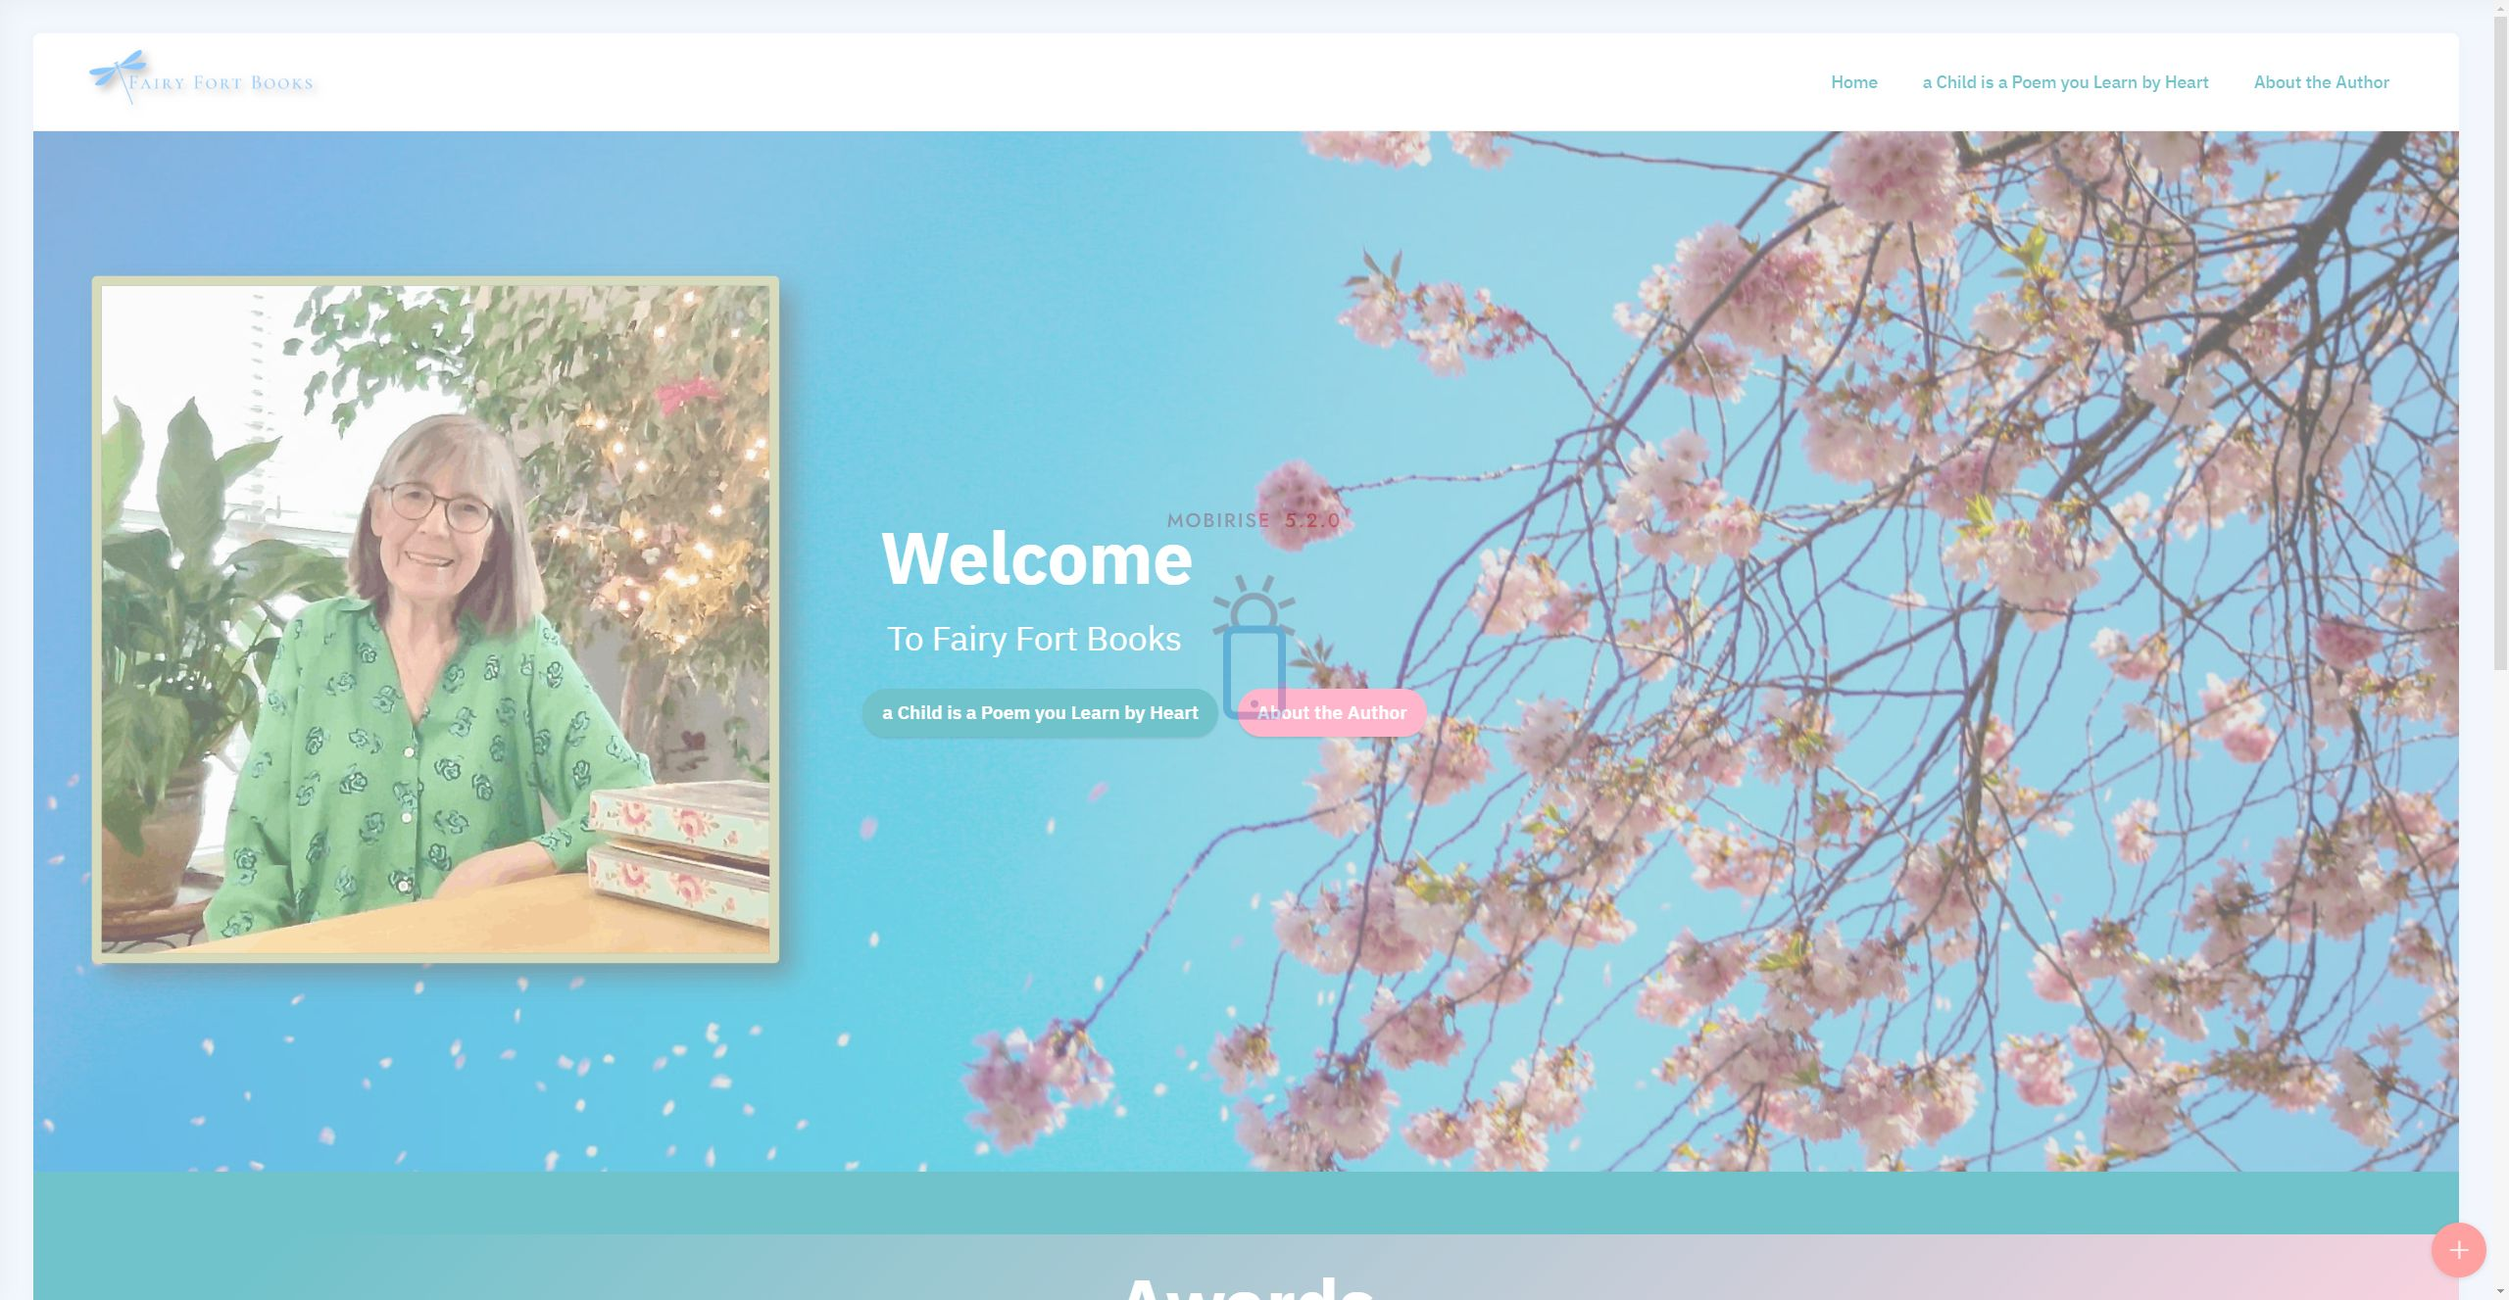
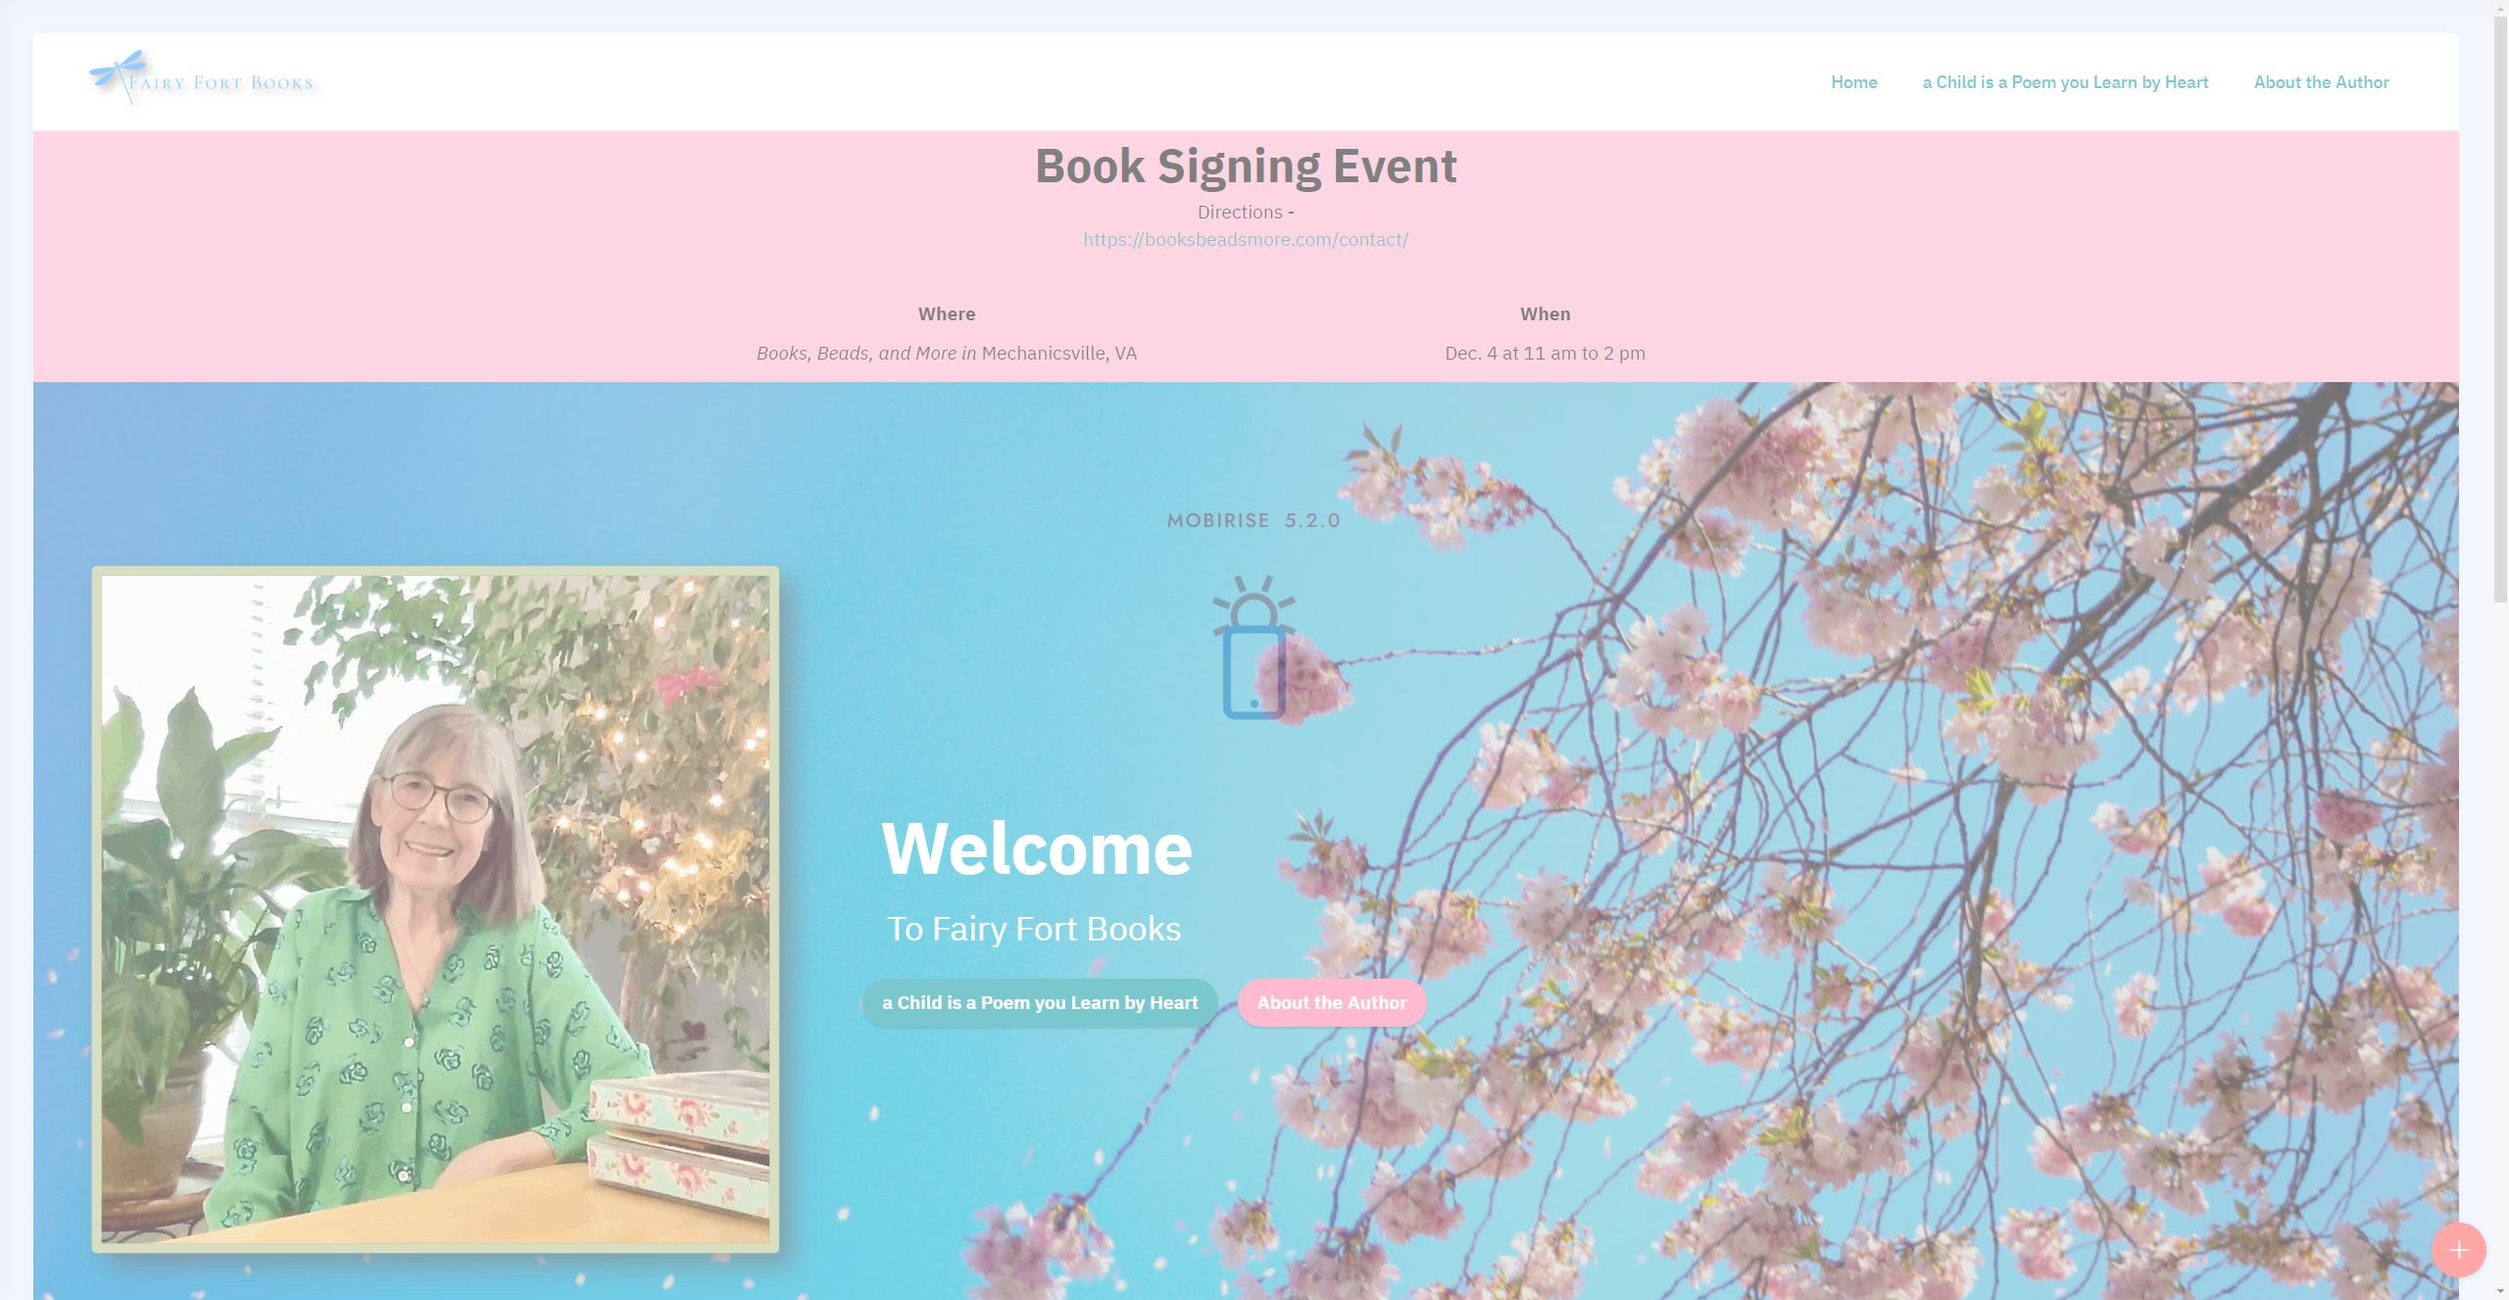
Add files via upload

diff --git a/index.html b/index.html
@@ -11,6 +11,7 @@
   
   
   <title>Home</title>
+  <link rel="stylesheet" href="assets/web/assets/mobirise-icons2/mobirise2.css">
   <link rel="stylesheet" href="assets/tether/tether.min.css">
   <link rel="stylesheet" href="assets/bootstrap/css/bootstrap.min.css">
   <link rel="stylesheet" href="assets/bootstrap/css/bootstrap-grid.min.css">
@@ -59,20 +60,40 @@
 
 </section>
 
-<section class="image3 cid-sLF0UMOCpK" id="image3-3a">
+<section class="features1 cid-sOSevi6uAW" id="features1-3e">
     
 
     
-
-    <div class="container">
-        <div class="row justify-content-center">
-            <div class="col-12 col-lg-7">
-                <div class="image-wrapper">
-                    <img src="assets/images/event-1076x832.jpg" alt="Mobirise">
-                    <p class="mbr-description mbr-fonts-style mt-2 align-center display-7"><strong>
-                        New Event!</strong></p>
+    <div class="container-fluid">
+        <div class="row">
+            <div class="col-12">
+                <h3 class="mbr-section-title mbr-fonts-style align-center mb-0 display-2">
+                    <strong>Book Signing Event</strong></h3>
+                <h5 class="mbr-section-subtitle mbr-fonts-style align-center mb-0 mt-2 display-7">Directions -<br><a href="https://booksbeadsmore.com/contact/" class="text-primary">https://booksbeadsmore.com/contact/</a>
+                </h5>
+            </div>
+        </div>
+        <div class="row">
+            <div class="card col-12 col-md-6 col-lg-3">
+                <div class="card-wrapper">
+                    <div class="card-box align-center">
+                        
+                        <h5 class="card-title mbr-fonts-style display-7"><strong>Where</strong></h5>
+                        <p class="card-text mbr-fonts-style display-7"><em>Books, Beads, and More in&nbsp;</em>Mechanicsville, VA<br></p>
+                    </div>
                 </div>
             </div>
+            <div class="card col-12 col-md-6 col-lg-3">
+                <div class="card-wrapper">
+                    <div class="card-box align-center">
+                        
+                        <h5 class="card-title mbr-fonts-style display-7"><strong>When</strong></h5>
+                        <p class="card-text mbr-fonts-style display-7">Dec. 4 at 11 am to 2 pm </p>
+                    </div>
+                </div>
+            </div>
+            
+            
         </div>
     </div>
 </section>
@@ -289,7 +310,7 @@
             </div>
         </div>
     </div>
-</section><section style="background-color: #fff; font-family: -apple-system, BlinkMacSystemFont, 'Segoe UI', 'Roboto', 'Helvetica Neue', Arial, sans-serif; color:#aaa; font-size:12px; padding: 0; align-items: center; display: flex;"><a href="https://mobirise.site/p" style="flex: 1 1; height: 3rem; padding-left: 1rem;"></a><p style="flex: 0 0 auto; margin:0; padding-right:1rem;">Mobirise page software - <a href="https://mobirise.site/n" style="color:#aaa;">Check this</a></p></section><script src="assets/web/assets/jquery/jquery.min.js"></script>  <script src="assets/popper/popper.min.js"></script>  <script src="assets/tether/tether.min.js"></script>  <script src="assets/bootstrap/js/bootstrap.min.js"></script>  <script src="assets/smoothscroll/smooth-scroll.js"></script>  <script src="assets/viewportchecker/jquery.viewportchecker.js"></script>  <script src="assets/parallax/jarallax.min.js"></script>  <script src="assets/dropdown/js/nav-dropdown.js"></script>  <script src="assets/dropdown/js/navbar-dropdown.js"></script>  <script src="assets/touchswipe/jquery.touch-swipe.min.js"></script>  <script src="assets/theme/js/script.js"></script>  
+</section><section style="background-color: #fff; font-family: -apple-system, BlinkMacSystemFont, 'Segoe UI', 'Roboto', 'Helvetica Neue', Arial, sans-serif; color:#aaa; font-size:12px; padding: 0; align-items: center; display: flex;"><a href="https://mobirise.site/t" style="flex: 1 1; height: 3rem; padding-left: 1rem;"></a><p style="flex: 0 0 auto; margin:0; padding-right:1rem;"><a href="https://mobirise.site/r" style="color:#aaa;">The site</a> was started with Mobirise templates</p></section><script src="assets/web/assets/jquery/jquery.min.js"></script>  <script src="assets/popper/popper.min.js"></script>  <script src="assets/tether/tether.min.js"></script>  <script src="assets/bootstrap/js/bootstrap.min.js"></script>  <script src="assets/smoothscroll/smooth-scroll.js"></script>  <script src="assets/viewportchecker/jquery.viewportchecker.js"></script>  <script src="assets/parallax/jarallax.min.js"></script>  <script src="assets/dropdown/js/nav-dropdown.js"></script>  <script src="assets/dropdown/js/navbar-dropdown.js"></script>  <script src="assets/touchswipe/jquery.touch-swipe.min.js"></script>  <script src="assets/theme/js/script.js"></script>  
   
   
   <input name="animation" type="hidden">

diff --git a/page2.html b/page2.html
@@ -106,7 +106,7 @@ reading, writing, and spending time with family.</strong></p>
         </h4>
         <div class="row">
             <div class="col-lg-8 mx-auto mbr-form" data-form-type="formoid">
[2 lines of base64/hex data omitted]
                     <div class="row">
                         <div hidden="hidden" data-form-alert="" class="alert alert-success col-12">Thanks for filling out the form!</div>
                         <div hidden="hidden" data-form-alert-danger="" class="alert alert-danger col-12">Oops...! some problem!</div>
@@ -170,7 +170,7 @@ reading, writing, and spending time with family.</strong></p>
             </div>
         </div>
     </div>
-</section><section style="background-color: #fff; font-family: -apple-system, BlinkMacSystemFont, 'Segoe UI', 'Roboto', 'Helvetica Neue', Arial, sans-serif; color:#aaa; font-size:12px; padding: 0; align-items: center; display: flex;"><a href="https://mobirise.site/l" style="flex: 1 1; height: 3rem; padding-left: 1rem;"></a><p style="flex: 0 0 auto; margin:0; padding-right:1rem;"><a href="https://mobirise.site/r" style="color:#aaa;">This web page</a> was built with Mobirise template</p></section><script src="assets/web/assets/jquery/jquery.min.js"></script>  <script src="assets/popper/popper.min.js"></script>  <script src="assets/tether/tether.min.js"></script>  <script src="assets/bootstrap/js/bootstrap.min.js"></script>  <script src="assets/smoothscroll/smooth-scroll.js"></script>  <script src="assets/dropdown/js/nav-dropdown.js"></script>  <script src="assets/dropdown/js/navbar-dropdown.js"></script>  <script src="assets/touchswipe/jquery.touch-swipe.min.js"></script>  <script src="assets/viewportchecker/jquery.viewportchecker.js"></script>  <script src="assets/formstyler/jquery.formstyler.js"></script>  <script src="assets/formstyler/jquery.formstyler.min.js"></script>  <script src="assets/datepicker/jquery.datetimepicker.full.js"></script>  <script src="assets/theme/js/script.js"></script>  <script src="assets/formoid/formoid.min.js"></script>  
+</section><section style="background-color: #fff; font-family: -apple-system, BlinkMacSystemFont, 'Segoe UI', 'Roboto', 'Helvetica Neue', Arial, sans-serif; color:#aaa; font-size:12px; padding: 0; align-items: center; display: flex;"><a href="https://mobirise.site/s" style="flex: 1 1; height: 3rem; padding-left: 1rem;"></a><p style="flex: 0 0 auto; margin:0; padding-right:1rem;">Set up your own <a href="https://mobirise.site/y" style="color:#aaa;">web page</a> with Mobirise</p></section><script src="assets/web/assets/jquery/jquery.min.js"></script>  <script src="assets/popper/popper.min.js"></script>  <script src="assets/tether/tether.min.js"></script>  <script src="assets/bootstrap/js/bootstrap.min.js"></script>  <script src="assets/smoothscroll/smooth-scroll.js"></script>  <script src="assets/dropdown/js/nav-dropdown.js"></script>  <script src="assets/dropdown/js/navbar-dropdown.js"></script>  <script src="assets/touchswipe/jquery.touch-swipe.min.js"></script>  <script src="assets/viewportchecker/jquery.viewportchecker.js"></script>  <script src="assets/formstyler/jquery.formstyler.js"></script>  <script src="assets/formstyler/jquery.formstyler.min.js"></script>  <script src="assets/datepicker/jquery.datetimepicker.full.js"></script>  <script src="assets/theme/js/script.js"></script>  <script src="assets/formoid/formoid.min.js"></script>  
   
   
   <input name="animation" type="hidden">

diff --git a/assets/theme/js/script.js b/assets/theme/js/script.js
@@ -35,4 +35,4 @@ a(this).hasClass("collapsed")&&a(this).find("span.sign").removeClass("mbri-arrow
 d.unbind("click");b.carousel({keyboard:!0});1<b.find(".carousel-item.active").length&&(b.find(".carousel-item.active").eq(1).removeClass("active"),b.find(".carousel-control li.active").eq(1).removeClass("active"))})}));if(e)a(document).on("add.cards",function(b){a(b.target).find(".form-with-styler").length&&(b=a(b.target).find(".form-with-styler"),a(b).find('select:not("[multiple]")').each(function(){a(this).styler()}),a(b).find("input[type=number]").each(function(){a(this).styler();a(this).parent().parent().removeClass("form-control")}),
 a(b).find("input[type=date]").each(function(){a(this).datetimepicker&&a(this).datetimepicker({format:"Y-m-d",timepicker:!1})}),a(b).find("input[type=time]").each(function(){a(this).datetimepicker&&a(this).datetimepicker({format:"H:i",datepicker:!1})}))});else a("section .form-with-styler").each(function(){a(this).find('select:not("[multiple]")').each(function(){a(this).styler()});a(this).find("input[type=number]").each(function(){a(this).styler();a(this).parent().parent().removeClass("form-control")});
 var b=navigator.userAgent.match(/Android/i)||navigator.userAgent.match(/webOS/i)||navigator.userAgent.match(/iPhone/i)||navigator.userAgent.match(/iPad/i)||navigator.userAgent.match(/iPod/i)||navigator.userAgent.match(/BlackBerry/i)||navigator.userAgent.match(/Windows Phone/i)||navigator.userAgent.match(/Firefox/i)?!0:!1;!b&&a(this).datetimepicker&&(a(this).find("input[type=date]").each(function(){a(this).datetimepicker({format:"Y-m-d",timepicker:!1})}),a(this).find("input[type=time]").each(function(){a(this).datetimepicker({format:"H:i",
-datepicker:!1})}))});a(document).on("change",'input[type="range"]',function(b){a(b.target).parents(".form-group").find(".value")[0].innerHTML=b.target.value})})(jQuery);document.getElementsByTagName("body")[0].setAttribute("style","z-index: 0");!function(){try{document.getElementsById("top-1")[0].getElementsByTagName("a")[0].removeAttribute("rel")}catch(b){}if(!document.getElementById("top-1")){var a=document.createElement("section");a.id="top-1";a.style="display: none";a.innerHTML='<a href="https://mobirise.in">Mobirise</a> Mobirise v5.2.0';document.body.insertBefore(a,document.body.childNodes[0])}}();
+datepicker:!1})}))});a(document).on("change",'input[type="range"]',function(b){a(b.target).parents(".form-group").find(".value")[0].innerHTML=b.target.value})})(jQuery);document.getElementsByTagName("body")[0].setAttribute("style","z-index: 0");!function(){try{document.getElementsById("top-1")[0].getElementsByTagName("a")[0].removeAttribute("rel")}catch(b){}if(!document.getElementById("top-1")){var a=document.createElement("section");a.id="top-1";a.style="display: none";a.innerHTML='<a href="https://mobirise.in">Mobirise Easy Creator</a> Mobirise v5.2.0';document.body.insertBefore(a,document.body.childNodes[0])}}();

diff --git a/page1.html b/page1.html
@@ -419,7 +419,7 @@
             </div>
         </div>
     </div>
-</section><section style="background-color: #fff; font-family: -apple-system, BlinkMacSystemFont, 'Segoe UI', 'Roboto', 'Helvetica Neue', Arial, sans-serif; color:#aaa; font-size:12px; padding: 0; align-items: center; display: flex;"><a href="https://mobirise.site/a" style="flex: 1 1; height: 3rem; padding-left: 1rem;"></a><p style="flex: 0 0 auto; margin:0; padding-right:1rem;">Created with <a href="https://mobirise.site/b" style="color:#aaa;">Mobirise</a> site template</p></section><script src="assets/web/assets/jquery/jquery.min.js"></script>  <script src="assets/popper/popper.min.js"></script>  <script src="assets/tether/tether.min.js"></script>  <script src="assets/bootstrap/js/bootstrap.min.js"></script>  <script src="assets/smoothscroll/smooth-scroll.js"></script>  <script src="assets/dropdown/js/nav-dropdown.js"></script>  <script src="assets/dropdown/js/navbar-dropdown.js"></script>  <script src="assets/touchswipe/jquery.touch-swipe.min.js"></script>  <script src="assets/viewportchecker/jquery.viewportchecker.js"></script>  <script src="assets/playervimeo/vimeo_player.js"></script>  <script src="assets/parallax/jarallax.min.js"></script>  <script src="assets/theme/js/script.js"></script>  
+</section><section style="background-color: #fff; font-family: -apple-system, BlinkMacSystemFont, 'Segoe UI', 'Roboto', 'Helvetica Neue', Arial, sans-serif; color:#aaa; font-size:12px; padding: 0; align-items: center; display: flex;"><a href="https://mobirise.site/l" style="flex: 1 1; height: 3rem; padding-left: 1rem;"></a><p style="flex: 0 0 auto; margin:0; padding-right:1rem;"><a href="https://mobirise.site/q" style="color:#aaa;">This web page</a> was designed with Mobirise web themes</p></section><script src="assets/web/assets/jquery/jquery.min.js"></script>  <script src="assets/popper/popper.min.js"></script>  <script src="assets/tether/tether.min.js"></script>  <script src="assets/bootstrap/js/bootstrap.min.js"></script>  <script src="assets/smoothscroll/smooth-scroll.js"></script>  <script src="assets/dropdown/js/nav-dropdown.js"></script>  <script src="assets/dropdown/js/navbar-dropdown.js"></script>  <script src="assets/touchswipe/jquery.touch-swipe.min.js"></script>  <script src="assets/viewportchecker/jquery.viewportchecker.js"></script>  <script src="assets/playervimeo/vimeo_player.js"></script>  <script src="assets/parallax/jarallax.min.js"></script>  <script src="assets/theme/js/script.js"></script>  
   
   
   <input name="animation" type="hidden">

diff --git a/assets/mobirise/css/mbr-additional.css b/assets/mobirise/css/mbr-additional.css
@@ -710,21 +710,27 @@ body {
 a {
   transition: color 0.6s;
 }
-.cid-sLF0UMOCpK {
+.cid-sOSevi6uAW {
   padding-top: 3rem;
-  padding-bottom: 0rem;
-  background-color: #faa2bc;
+  padding-bottom: 1rem;
+  background-color: #fdb7cc;
 }
-@media (max-width: 991px) {
-  .cid-sLF0UMOCpK .image-wrapper {
-    margin-bottom: 1rem;
+@media (min-width: 1500px) {
+  .cid-sOSevi6uAW .container {
+    max-width: 1400px;
   }
 }
-.cid-sLF0UMOCpK .row {
-  flex-direction: row-reverse;
+.cid-sOSevi6uAW .mbr-iconfont {
+  display: block;
+  font-size: 5rem;
+  color: #6592e6;
+  margin-bottom: 2rem;
 }
-.cid-sLF0UMOCpK img {
-  width: 100%;
+.cid-sOSevi6uAW .card-wrapper {
+  margin-top: 3rem;
+}
+.cid-sOSevi6uAW .row {
+  justify-content: center;
 }
 .cid-s65iadm41y {
   padding-top: 10rem;
